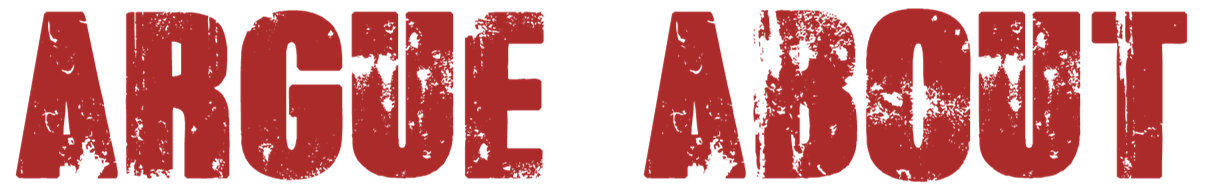
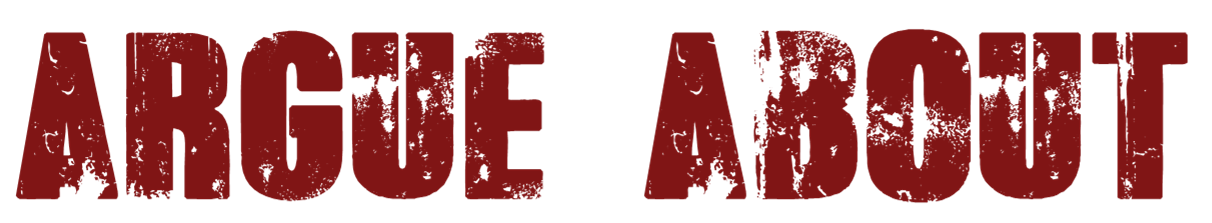
v

diff --git a/app/app.scss b/app/app.scss
@@ -2,10 +2,13 @@
 @import "chat/chat";
 @import "home/home.css";
 @import "argue/argue.css";
+@import "variables";
+
 
 
 .header {
-  background-color: #2da7ff;
+  background-image: url("images/the_wall.jpg");
+  background-color: $grey;
 }
 
 
@@ -34,5 +37,8 @@ footer {
 
 .nav {
   display: inline;
+  a {
+    color: $dark-accent2;
+  }
 }
 

diff --git a/app/home/home.scss b/app/home/home.scss
@@ -1,7 +1,9 @@
+@import "../variables";
 
 .argument {
-  background-color: #00b3ee;
+  background-color: lighten($grey,20%);
     text-align: center;
+  border-radius: 2%;
   padding: 3px;
   margin: 10px;
 

diff --git a/app/_variables.scss b/app/_variables.scss
@@ -1,0 +1,6 @@
+$dark-accent1 : #550000;
+$dark-accent2 : #801515;
+$base-color : #AA3939;
+$light-accent1 : #D46A6A;
+$light-accent2 : #FFAAAA;
+$grey:#7A7A7A;

diff --git a/app/chat/_chat.scss b/app/chat/_chat.scss
@@ -1,4 +1,5 @@
 
+
 footer {
   position: fixed;
   bottom:0;
